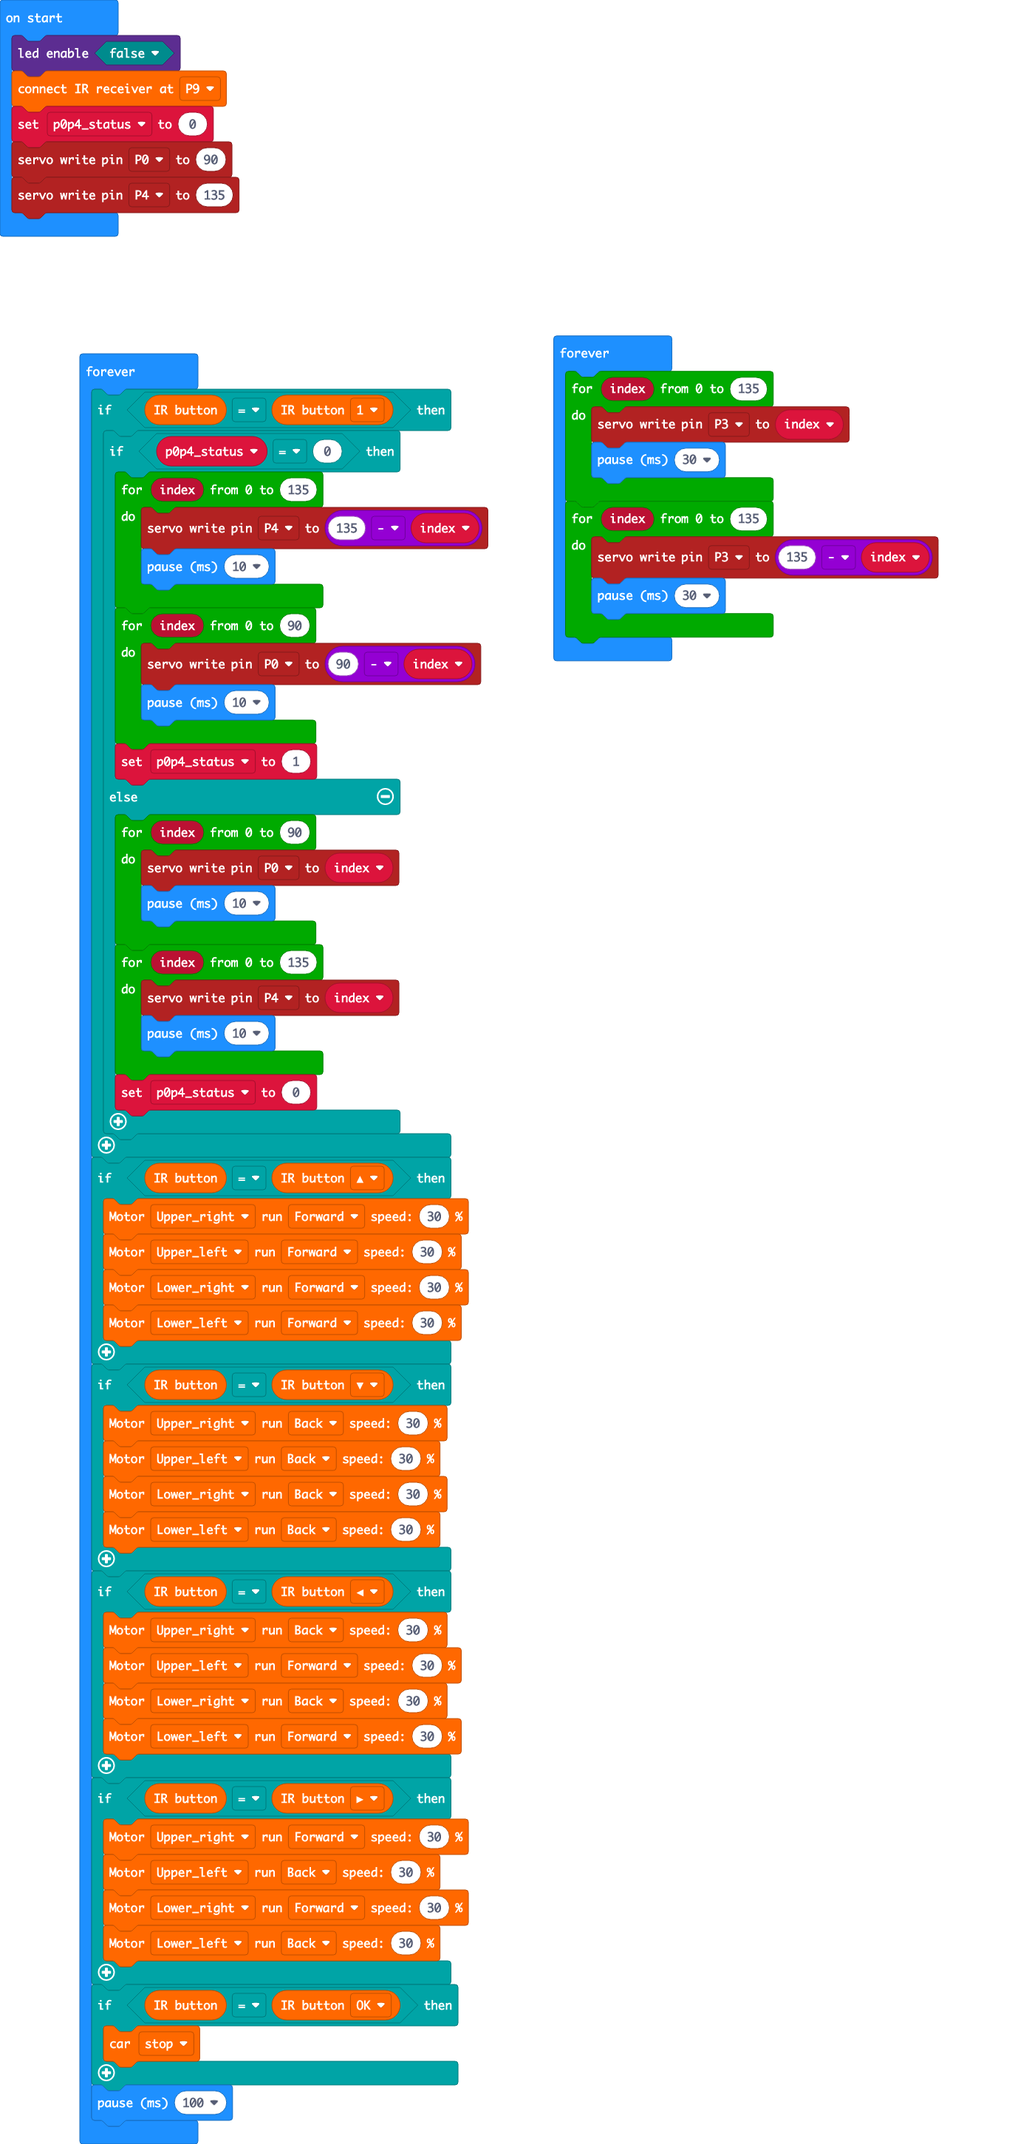
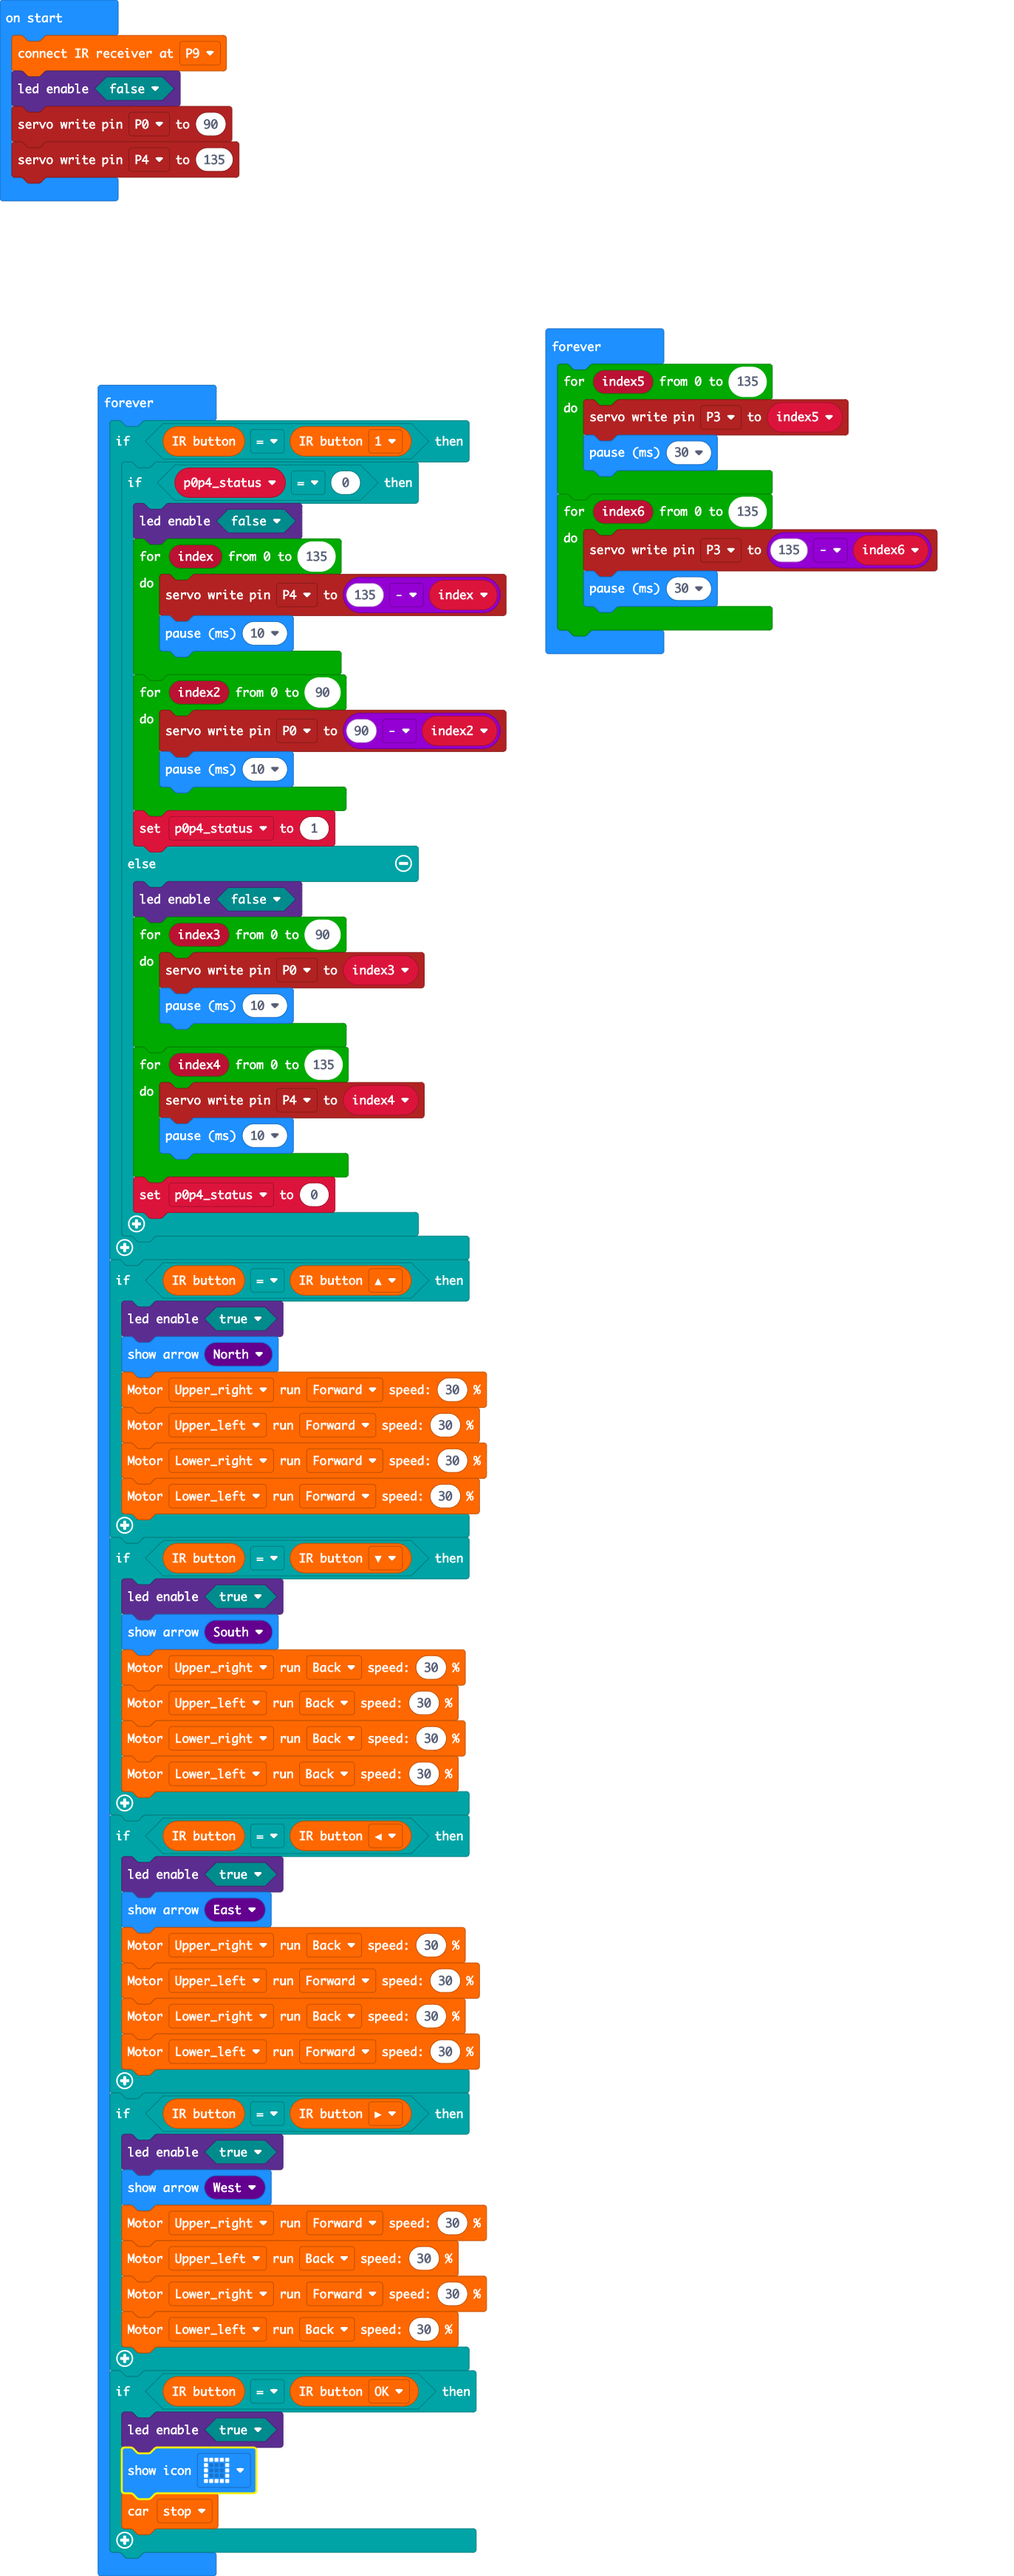
Update pxt.json, main.blocks, main.ts, main.py

Changed region(s): [[0.0, 0.0, 0.9483, 1.0]]

diff --git a/main.ts b/main.ts
@@ -1,68 +1,79 @@
-led.enable(false)
-irRemote.connectInfrared(DigitalPin.P9)
 let p0p4_status = 0
+irRemote.connectInfrared(DigitalPin.P9)
+led.enable(false)
 pins.servoWritePin(AnalogPin.P0, 90)
 pins.servoWritePin(AnalogPin.P4, 135)
 basic.forever(function () {
+    for (let index5 = 0; index5 <= 135; index5++) {
+        pins.servoWritePin(AnalogPin.P3, index5)
+        basic.pause(30)
+    }
+    for (let index6 = 0; index6 <= 135; index6++) {
+        pins.servoWritePin(AnalogPin.P3, 135 - index6)
+        basic.pause(30)
+    }
+})
+basic.forever(function () {
     if (irRemote.returnIrButton() == irRemote.irButton(IrButton.Number_1)) {
         if (p0p4_status == 0) {
+            led.enable(false)
             for (let index = 0; index <= 135; index++) {
                 pins.servoWritePin(AnalogPin.P4, 135 - index)
                 basic.pause(10)
             }
-            for (let index = 0; index <= 90; index++) {
-                pins.servoWritePin(AnalogPin.P0, 90 - index)
+            for (let index2 = 0; index2 <= 90; index2++) {
+                pins.servoWritePin(AnalogPin.P0, 90 - index2)
                 basic.pause(10)
             }
             p0p4_status = 1
         } else {
-            for (let index = 0; index <= 90; index++) {
-                pins.servoWritePin(AnalogPin.P0, index)
+            led.enable(false)
+            for (let index3 = 0; index3 <= 90; index3++) {
+                pins.servoWritePin(AnalogPin.P0, index3)
                 basic.pause(10)
             }
-            for (let index = 0; index <= 135; index++) {
-                pins.servoWritePin(AnalogPin.P4, index)
+            for (let index4 = 0; index4 <= 135; index4++) {
+                pins.servoWritePin(AnalogPin.P4, index4)
                 basic.pause(10)
             }
             p0p4_status = 0
         }
     }
     if (irRemote.returnIrButton() == irRemote.irButton(IrButton.Up)) {
+        led.enable(true)
+        basic.showArrow(ArrowNames.North)
         mecanumRobot.Motor(LR.Upper_right, MD.Forward, 30)
         mecanumRobot.Motor(LR.Upper_left, MD.Forward, 30)
         mecanumRobot.Motor(LR.Lower_right, MD.Forward, 30)
         mecanumRobot.Motor(LR.Lower_left, MD.Forward, 30)
     }
     if (irRemote.returnIrButton() == irRemote.irButton(IrButton.Down)) {
+        led.enable(true)
+        basic.showArrow(ArrowNames.South)
         mecanumRobot.Motor(LR.Upper_right, MD.Back, 30)
         mecanumRobot.Motor(LR.Upper_left, MD.Back, 30)
         mecanumRobot.Motor(LR.Lower_right, MD.Back, 30)
         mecanumRobot.Motor(LR.Lower_left, MD.Back, 30)
     }
     if (irRemote.returnIrButton() == irRemote.irButton(IrButton.Left)) {
+        led.enable(true)
+        basic.showArrow(ArrowNames.East)
         mecanumRobot.Motor(LR.Upper_right, MD.Back, 30)
         mecanumRobot.Motor(LR.Upper_left, MD.Forward, 30)
         mecanumRobot.Motor(LR.Lower_right, MD.Back, 30)
         mecanumRobot.Motor(LR.Lower_left, MD.Forward, 30)
     }
     if (irRemote.returnIrButton() == irRemote.irButton(IrButton.Right)) {
+        led.enable(true)
+        basic.showArrow(ArrowNames.West)
         mecanumRobot.Motor(LR.Upper_right, MD.Forward, 30)
         mecanumRobot.Motor(LR.Upper_left, MD.Back, 30)
         mecanumRobot.Motor(LR.Lower_right, MD.Forward, 30)
         mecanumRobot.Motor(LR.Lower_left, MD.Back, 30)
     }
     if (irRemote.returnIrButton() == irRemote.irButton(IrButton.Ok)) {
+        led.enable(true)
+        basic.showIcon(IconNames.Square)
         mecanumRobot.state(MotorState.stop)
-    }
-    basic.pause(100)
-})
-basic.forever(function () {
-    for (let index = 0; index <= 135; index++) {
-        pins.servoWritePin(AnalogPin.P3, index)
-        basic.pause(30)
-    }
-    for (let index = 0; index <= 135; index++) {
-        pins.servoWritePin(AnalogPin.P3, 135 - index)
-        basic.pause(30)
     }
 })

diff --git a/main.py b/main.py
@@ -1,0 +1,58 @@
+led.enable(False)
+irRemote.connect_infrared(DigitalPin.P9)
+p0p4_status = 0
+pins.servo_write_pin(AnalogPin.P0, 90)
+pins.servo_write_pin(AnalogPin.P4, 135)
+
+def on_forever():
+    global p0p4_status
+    if irRemote.return_ir_button() == irRemote.ir_button(IrButton.NUMBER_1):
+        if p0p4_status == 0:
+            for index in range(136):
+                pins.servo_write_pin(AnalogPin.P4, 135 - index)
+                basic.pause(10)
+            for index2 in range(91):
+                pins.servo_write_pin(AnalogPin.P0, 90 - index2)
+                basic.pause(10)
+            p0p4_status = 1
+        else:
+            for index3 in range(91):
+                pins.servo_write_pin(AnalogPin.P0, index3)
+                basic.pause(10)
+            for index4 in range(136):
+                pins.servo_write_pin(AnalogPin.P4, index4)
+                basic.pause(10)
+            p0p4_status = 0
+    if irRemote.return_ir_button() == irRemote.ir_button(IrButton.UP):
+        mecanumRobot.motor(LR.UPPER_RIGHT, MD.FORWARD, 30)
+        mecanumRobot.motor(LR.UPPER_LEFT, MD.FORWARD, 30)
+        mecanumRobot.motor(LR.LOWER_RIGHT, MD.FORWARD, 30)
+        mecanumRobot.motor(LR.LOWER_LEFT, MD.FORWARD, 30)
+    if irRemote.return_ir_button() == irRemote.ir_button(IrButton.DOWN):
+        mecanumRobot.motor(LR.UPPER_RIGHT, MD.BACK, 30)
+        mecanumRobot.motor(LR.UPPER_LEFT, MD.BACK, 30)
+        mecanumRobot.motor(LR.LOWER_RIGHT, MD.BACK, 30)
+        mecanumRobot.motor(LR.LOWER_LEFT, MD.BACK, 30)
+    if irRemote.return_ir_button() == irRemote.ir_button(IrButton.LEFT):
+        mecanumRobot.motor(LR.UPPER_RIGHT, MD.BACK, 30)
+        mecanumRobot.motor(LR.UPPER_LEFT, MD.FORWARD, 30)
+        mecanumRobot.motor(LR.LOWER_RIGHT, MD.BACK, 30)
+        mecanumRobot.motor(LR.LOWER_LEFT, MD.FORWARD, 30)
+    if irRemote.return_ir_button() == irRemote.ir_button(IrButton.RIGHT):
+        mecanumRobot.motor(LR.UPPER_RIGHT, MD.FORWARD, 30)
+        mecanumRobot.motor(LR.UPPER_LEFT, MD.BACK, 30)
+        mecanumRobot.motor(LR.LOWER_RIGHT, MD.FORWARD, 30)
+        mecanumRobot.motor(LR.LOWER_LEFT, MD.BACK, 30)
+    if irRemote.return_ir_button() == irRemote.ir_button(IrButton.OK):
+        mecanumRobot.state(MotorState.STOP)
+    basic.pause(100)
+basic.forever(on_forever)
+
+def on_forever2():
+    for index5 in range(136):
+        pins.servo_write_pin(AnalogPin.P3, index5)
+        basic.pause(30)
+    for index6 in range(136):
+        pins.servo_write_pin(AnalogPin.P3, 135 - index6)
+        basic.pause(30)
+basic.forever(on_forever2)
